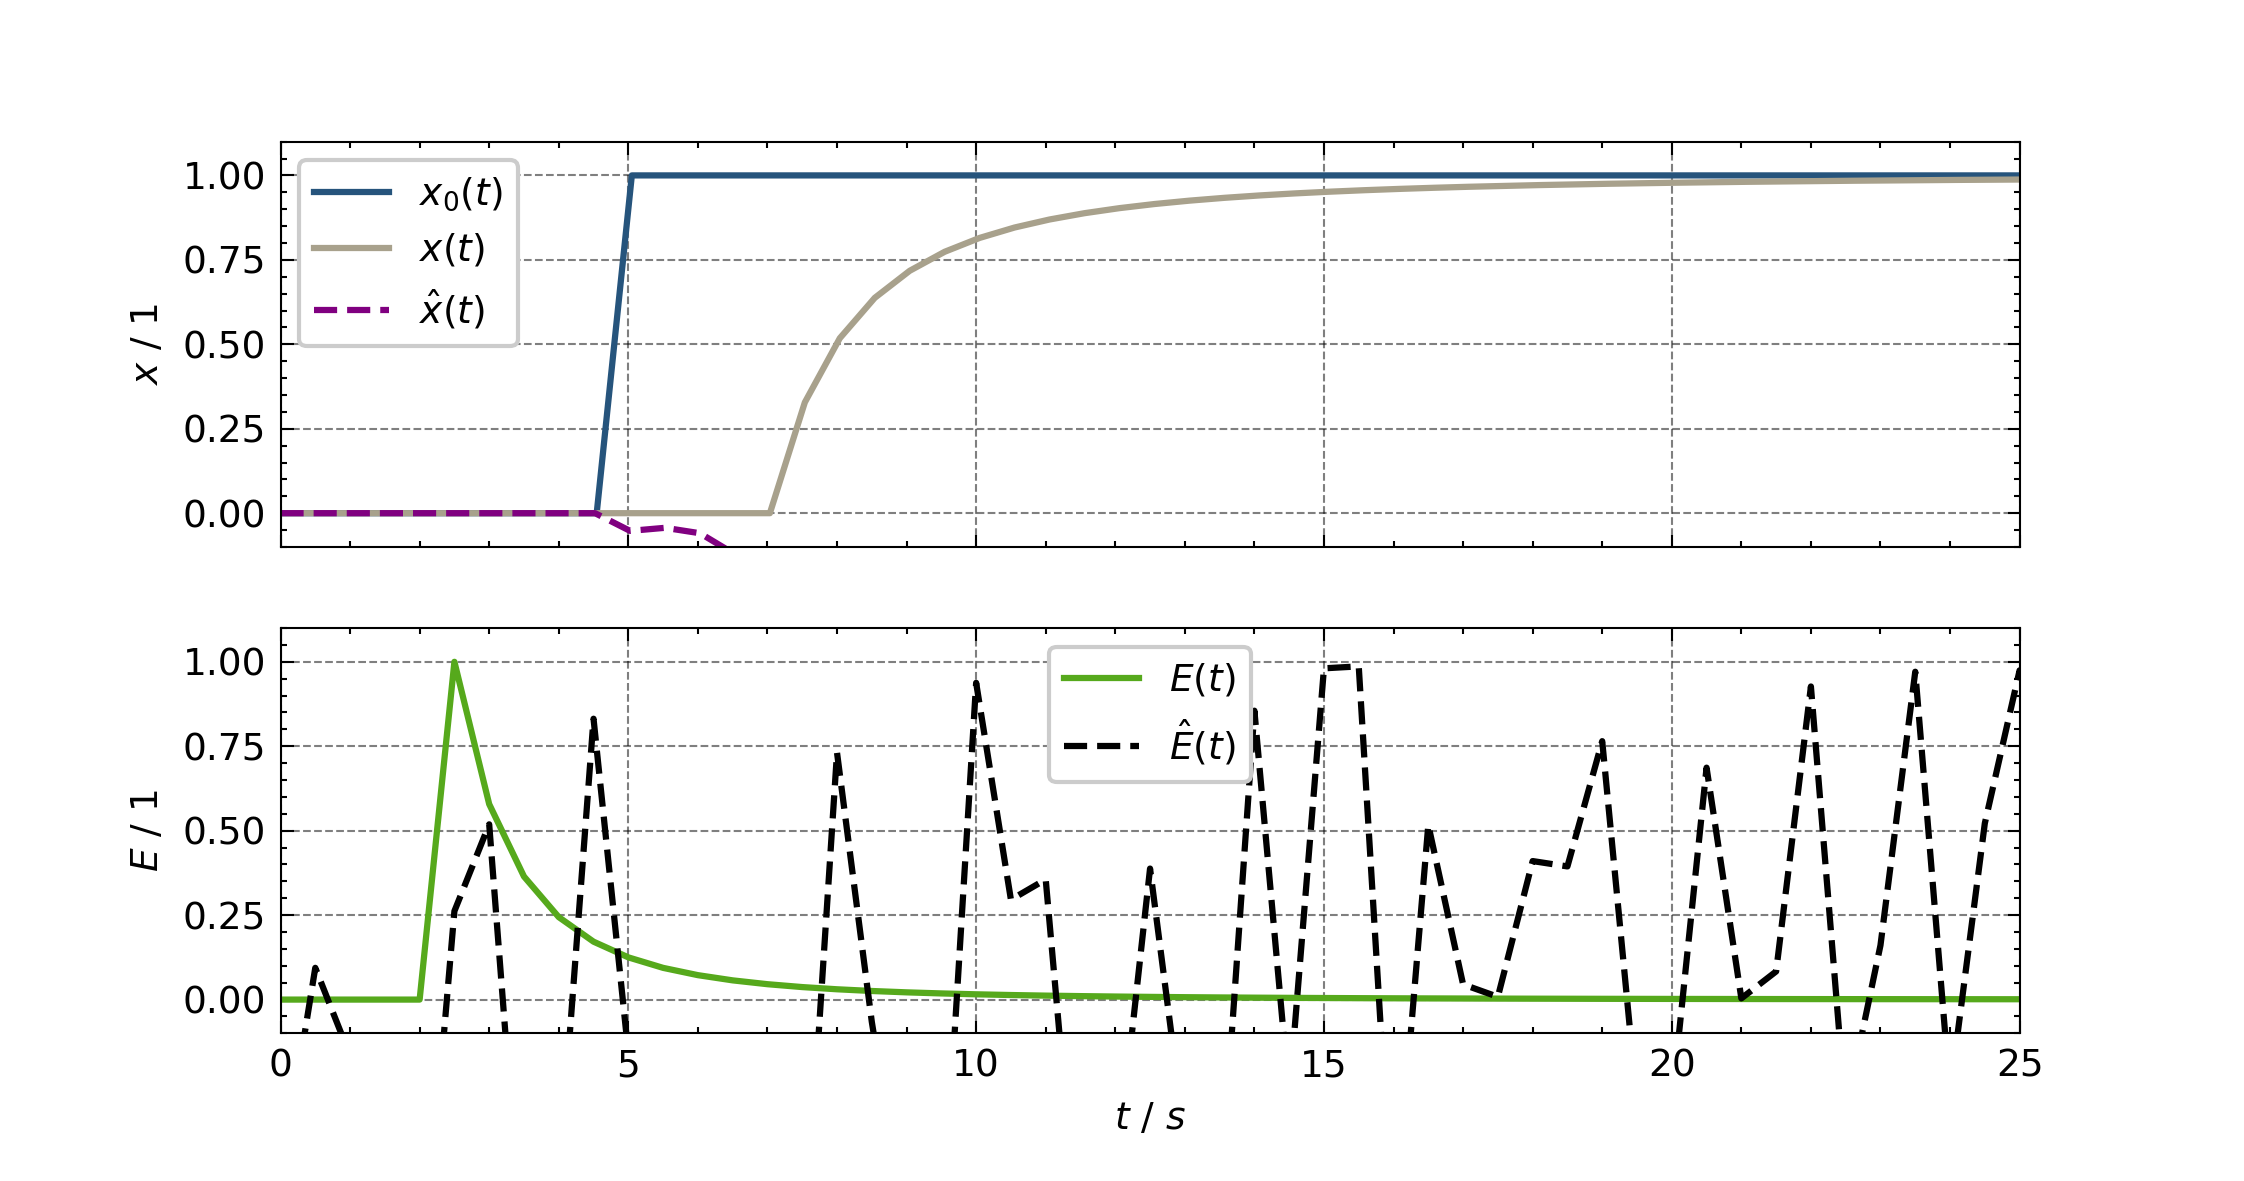
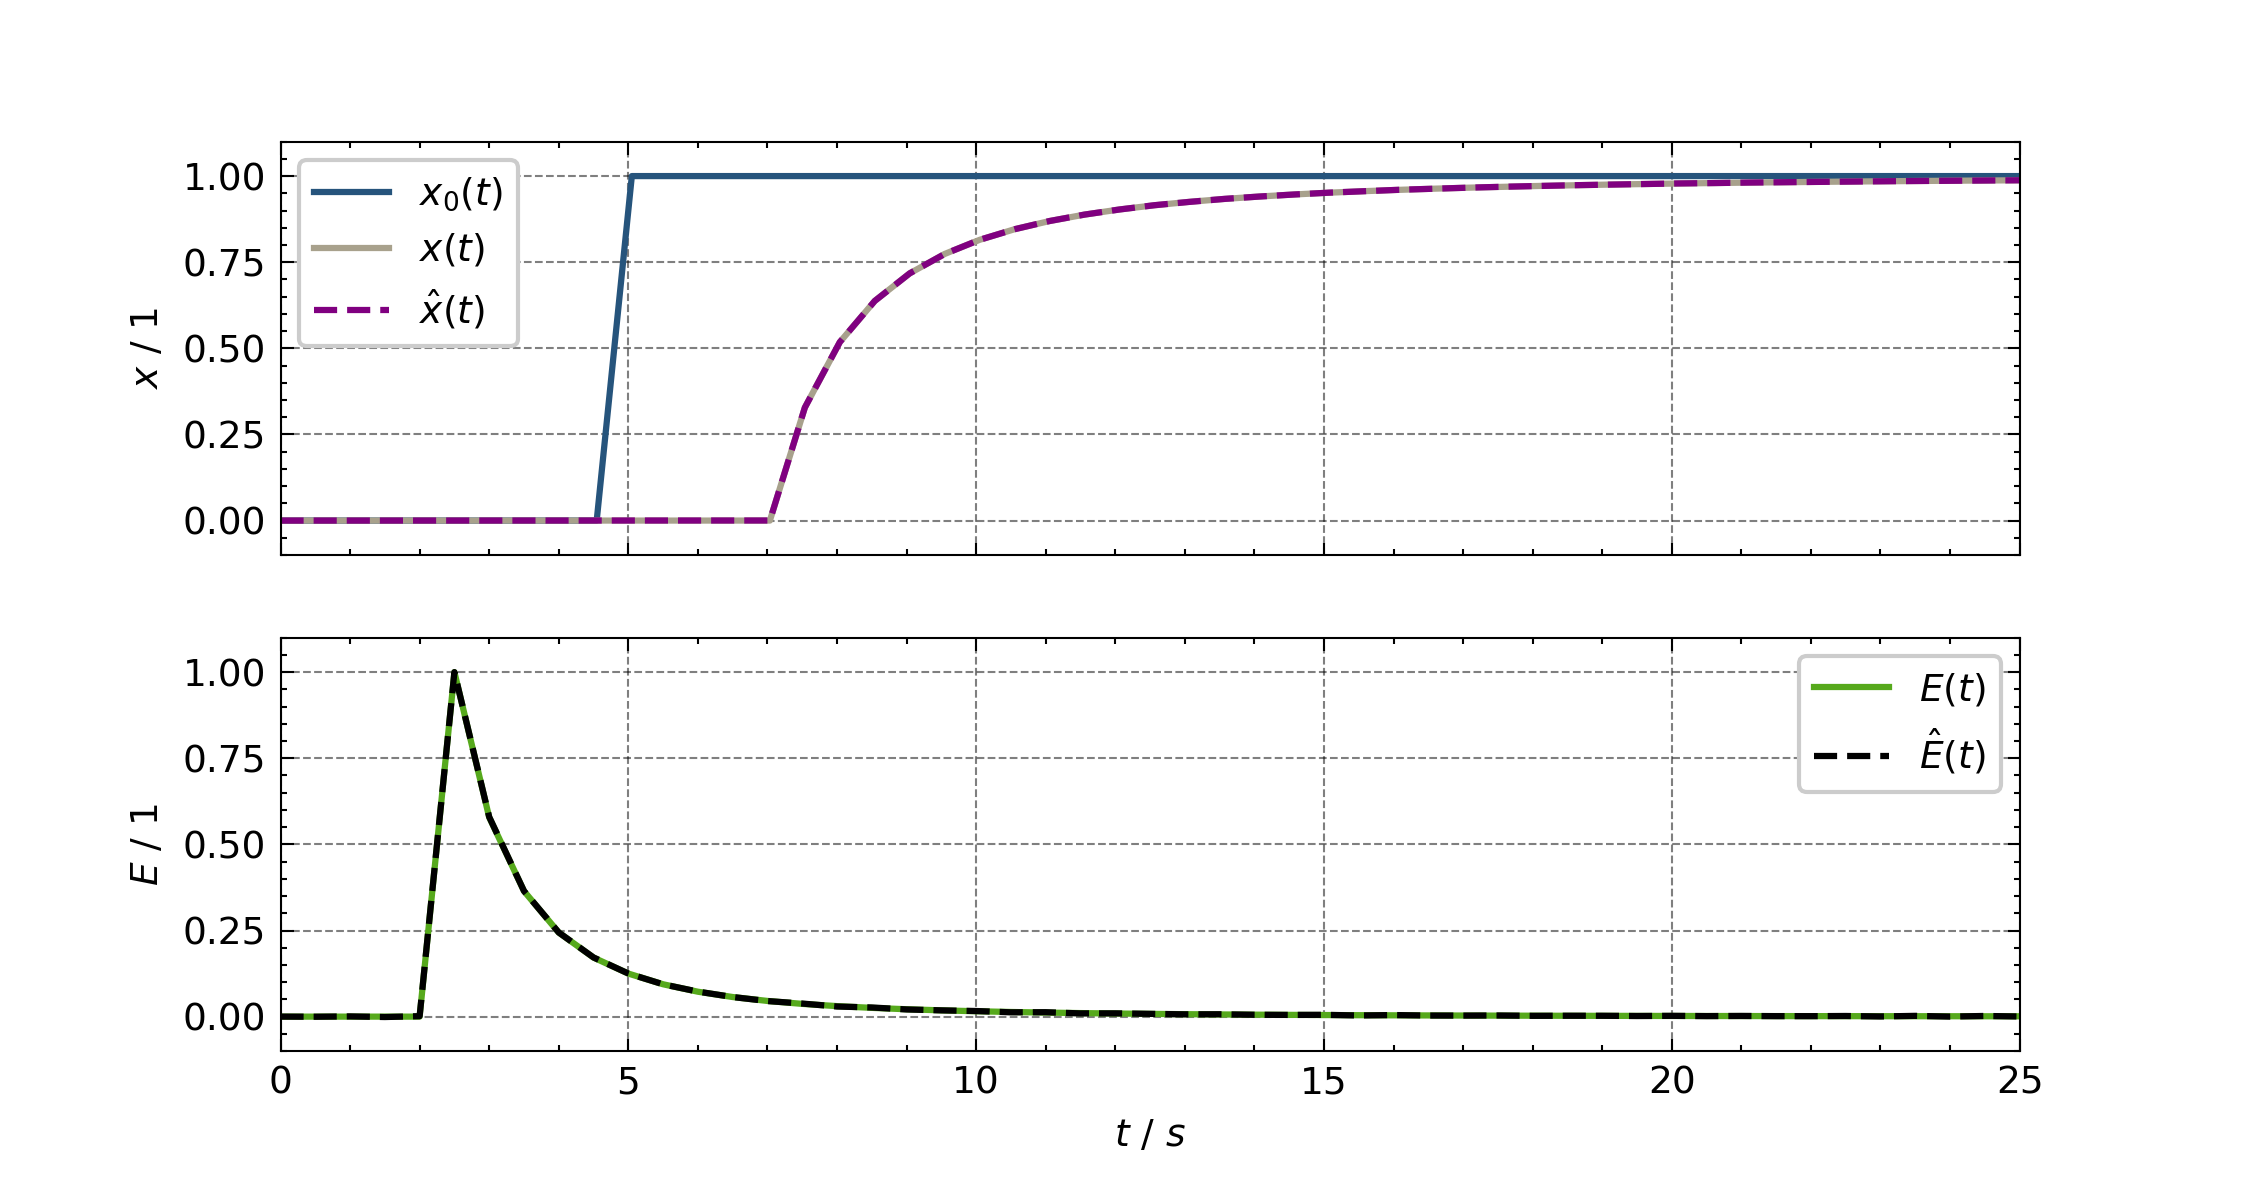
Laminar model-100s

diff --git a/Experiments/Preliminary/Convolution_script/Convolution_021_Laminar_Flow_Model/Convolution_021_Laminar_Flow_Model.py b/Experiments/Preliminary/Convolution_script/Convolution_021_Laminar_Flow_Model/Convolution_021_Laminar_Flow_Model.py
@@ -25,11 +25,11 @@ if wandb.run is not None:
 # module_path = os.path.expanduser("~/Documents/GitHub/nRTD/lib")
 # sys.path.append(module_path)
 # laminar_model_dir=r"D:\Tuana\nRTD\Experiments\Preliminary\Convolution_script\Convolution_021_Laminar_Flow_Model\Convolution_021_Laminar_Flow_Model.py"
-# tau_5_dir = r"D:\Tuana\nRTD\Experiments\Preliminary\Litrature\Laminar_Flow_Model\tau_5.0_disc_200_100s"
-tau_5_dir="/Users/tuanaoyuncu/Documents/GitHub/nRTD/Experiments/Preliminary/Litrature/Laminar_Flow_Model/tau_5.0_disc_200_100s"
+tau_5_dir = r"D:\Tuana\nRTD\Experiments\Preliminary\Litrature\Laminar_Flow_Model\tau_5.0_disc_200_100s"
+#tau_5_dir="/Users/tuanaoyuncu/Documents/GitHub/nRTD/Experiments/Preliminary/Litrature/Laminar_Flow_Model/tau_5.0_disc_200_100s"
 
 
-epoch=1
+epoch=20000
 n_in_1, n_out_1, n_e_1, = sp.symbols(
     "n_in_1 n_out_1 n_e_1 ", positive=True, real=True
 )
@@ -218,8 +218,8 @@ predicted_time = t_E.numpy()
 expected_E = E_expected_np                   
 expected_time = t_E_np
 c_conv_in_50=c_conv.detach().numpy()
-#save_dir =r"D:\Tuana\nRTD\Experiments\Preliminary\Convolution_script\Convolution_021_Laminar_Flow_Model"
-save_dir="/Users/tuanaoyuncu/Documents/GitHub/nRTD/Experiments/Preliminary/Convolution_script/Convolution_021_Laminar_Flow_Model"
+save_dir =r"D:\Tuana\nRTD\Experiments\Preliminary\Convolution_script\Convolution_021_Laminar_Flow_Model"
+#save_dir="/Users/tuanaoyuncu/Documents/GitHub/nRTD/Experiments/Preliminary/Convolution_script/Convolution_021_Laminar_Flow_Model"
 np.save(os.path.join(save_dir, 'E_predicted.npy'), predicted_E)
 np.save(os.path.join(save_dir, 't_E_predicted.npy'), predicted_time)
 np.save(os.path.join(save_dir, 'E_expected.npy'), expected_E)
